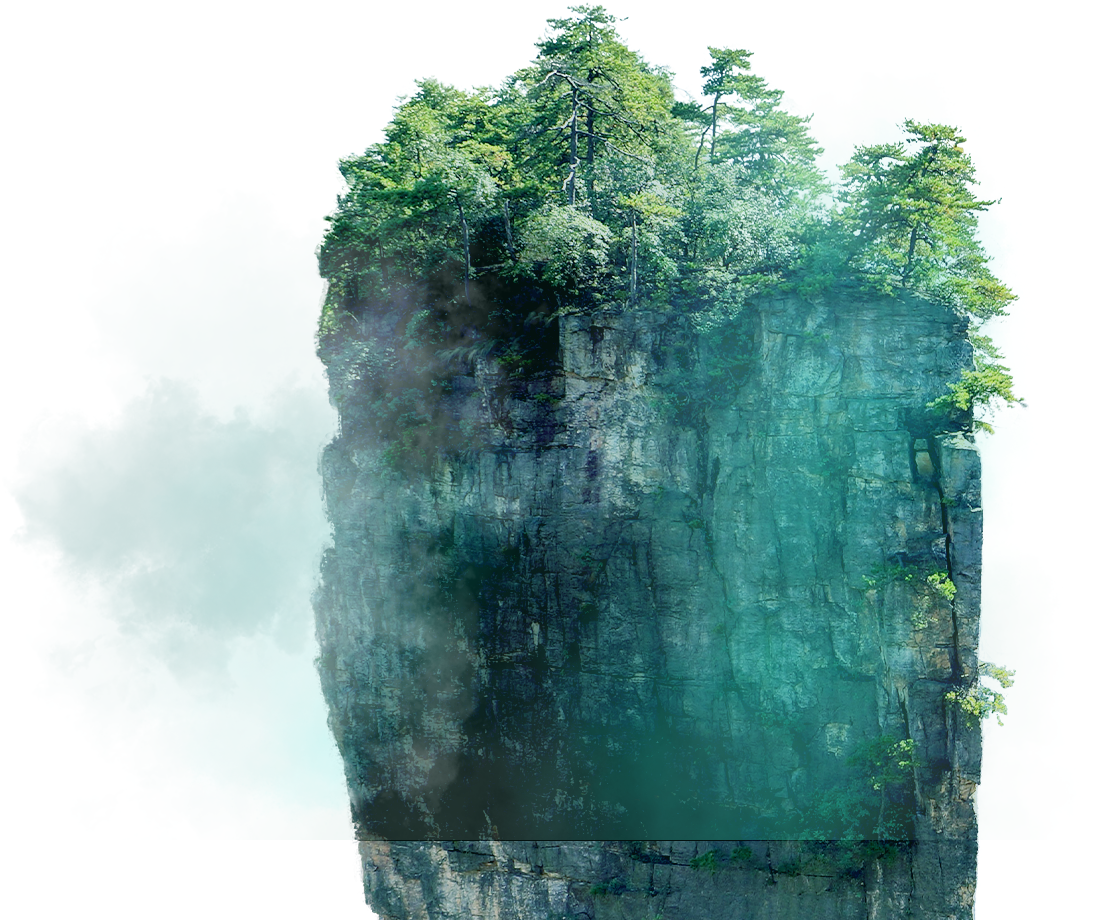
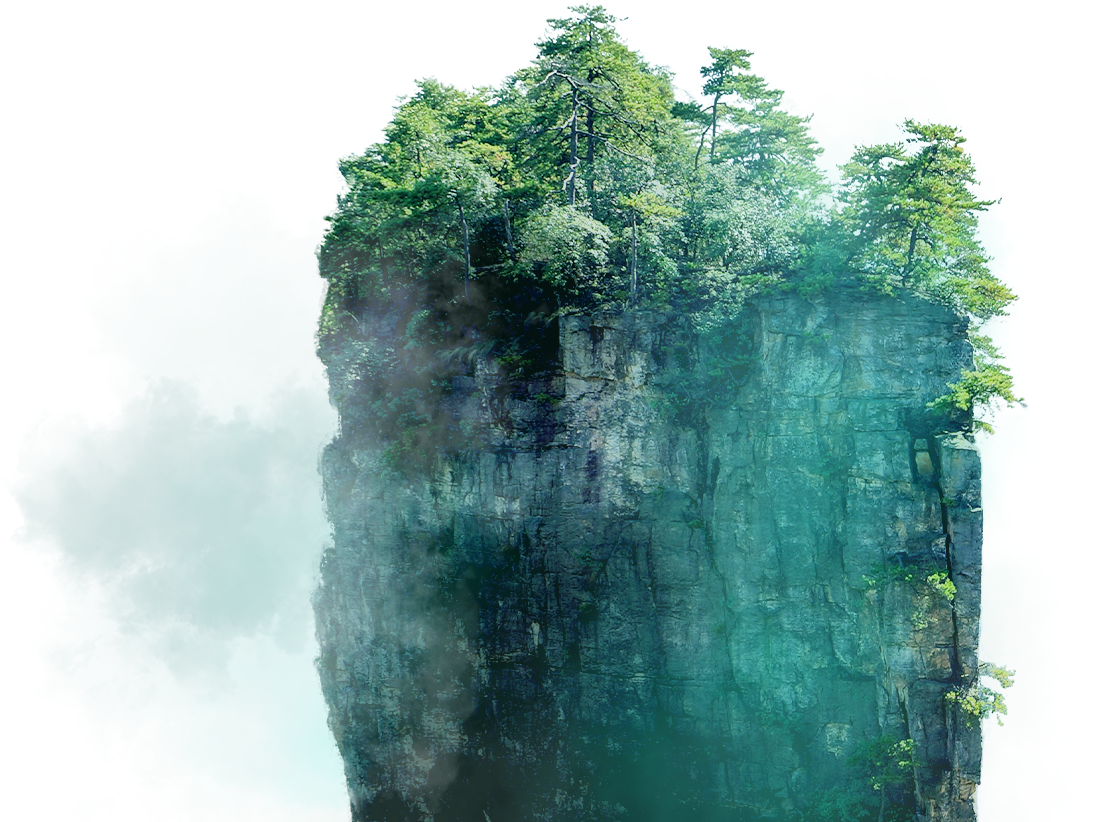
visual 이미지 수정

diff --git a/src/index.html b/src/index.html
@@ -21,21 +21,20 @@
     <main class="main">
       <h1 class="offscreen">홈</h1>
       <section class="visual">
-        <img src="./assets/images/bg_visual.png" alt="" class="visual__parallax visual__parallax--bg" data-speedx="0.3" data-speedy="0.28" data-speedz="0.32" data-rotation="0.3">
-        <img src="./assets/images/bg_visual_mountain01.png" alt="" class="visual__parallax visual__parallax--mountain01" data-speedx="0.245" data-speedy="0.221" data-speedz="0.43" data-rotation="0.23">
-        <img src="./assets/images/bg_visual_mountain02.png" alt="" class="visual__parallax visual__parallax--mountain02" data-speedx="0.19" data-speedy="0.185" data-speedz="0.67" data-rotation="0.43">
-        <img src="./assets/images/bg_visual_mountain03.png" alt="" class="visual__parallax visual__parallax--mountain03" data-speedx="0.135" data-speedy="0.153" data-speedz="0" data-rotation="0.23">
-        <img src="./assets/images/bg_visual_mountain04.png" alt="" class="visual__parallax visual__parallax--mountain04" data-speedx="0.09" data-speedy="0.1" data-speedz="0.39" data-rotation="0.31">
-        <div class="visual__parallax visual__parallax--txt" data-speedx="0.083" data-speedy="0.075" data-speedz="0.06" data-rotation="0.35">
+        <img src="./assets/images/bg_visual.jpg" alt="" class="visual__parallax visual__parallax--bg" data-speedx="0.2" data-speedy="0.2" data-speedz="0.2" data-rotation="0.2">
+        <img src="./assets/images/bg_visual_mountain01.png" alt="" class="visual__parallax visual__parallax--mountain01" data-speedx="0.18" data-speedy="0.18" data-speedz="0.5" data-rotation="0.4">
+        <img src="./assets/images/bg_visual_mountain02.png" alt="" class="visual__parallax visual__parallax--mountain02" data-speedx="0.15" data-speedy="0.15" data-speedz="0.6" data-rotation="0.5">
+        <img src="./assets/images/bg_visual_mountain03.png" alt="" class="visual__parallax visual__parallax--mountain03" data-speedx="0.13" data-speedy="0.13" data-speedz="0.1" data-rotation="0.1">
+        <img src="./assets/images/bg_visual_mountain04.png" alt="" class="visual__parallax visual__parallax--mountain04" data-speedx="0.1" data-speedy="0.1" data-speedz="0.3" data-rotation="0.3">
+        <div class="visual__parallax visual__parallax--txt" data-speedx="0.08" data-speedy="0.08" data-speedz="0.2" data-rotation="0.2">
           <h2 class="visual__tit">김재환 웹 포트폴리오</h2>
           <span class="visual__logo">HWAN</span>
         </div>
-        <img src="./assets/images/bg_visual_mountain05.png" alt="" class="visual__parallax visual__parallax--mountain05" data-speedx="0.063" data-speedy="0.053" data-speedz="0.3" data-rotation="0.37">
-        <img src="./assets/images/bg_visual_mountain06.png" alt="" class="visual__parallax visual__parallax--mountain06" data-speedx="0.042" data-speedy="0.064" data-speedz="0" data-rotation="0.3">
-        <img src="./assets/images/bg_visual_mountain07.png" alt="" class="visual__parallax visual__parallax--mountain07" data-speedx="0.054" data-speedy="0.032" data-speedz="0.25" data-rotation="0.134">
-        <img src="./assets/images/bg_visual_fog01.png" alt="" class="visual__parallax visual__parallax--fog01" data-speedx="0.045" data-speedy="0.065" data-speedz="0" data-rotation="0">
+        <img src="./assets/images/bg_visual_mountain05.png" alt="" class="visual__parallax visual__parallax--mountain05" data-speedx="0.06" data-speedy="0.06" data-speedz="0.2" data-rotation="0.2">
+        <img src="./assets/images/bg_visual_mountain06.png" alt="" class="visual__parallax visual__parallax--mountain06" data-speedx="0.04" data-speedy="0.04" data-speedz="0.2" data-rotation="0.2">
+        <img src="./assets/images/bg_visual_mountain07.png" alt="" class="visual__parallax visual__parallax--mountain07" data-speedx="0.02" data-speedy="0.02" data-speedz="0.2" data-rotation="0.1">
+        <img src="./assets/images/bg_visual_fog01.png" alt="" class="visual__parallax visual__parallax--fog01" data-speedx="0.2" data-speedy="0.2" data-speedz="0.2" data-rotation="0.2">
         <img src="./assets/images/bg_visual_fog02.png" alt="" class="visual__parallax visual__parallax--fog02" data-speedx="0.04" data-speedy="0.06" data-speedz="0.45" data-rotation="0.32">
-        <img src="./assets/images/bg_visual_sun.png" alt="" class="visual__parallax visual__parallax--sun" data-speedx="0.031" data-speedy="0.025" data-speedz="0.04" data-rotation="0">
         <div class="visual__mask"></div>
       </section>
       <section class="projects">
@@ -240,6 +239,10 @@
 
     {{> footer }}
     <!-- footer.html -->
+
+    <div class="scroll-up">
+      <button type="button" class="scroll-up__btn"><span class="offscreen">상단으로 이동</span></button>
+    </div>
   </div>
   
   <script type="module" src="./assets/js/index.js"></script>

diff --git a/src/assets/css/style.scss b/src/assets/css/style.scss
@@ -1,5 +1,4 @@
 @import "_common";
-@import "_header";
 
 // svg {
 //   margin: 0 auto;
@@ -45,27 +44,27 @@
       pointer-events: none;
       backface-visibility: hidden;
       &--bg {
-        left: calc(50% + 15rem);
-        top: calc(50% - 40rem);
-        width: 385.2rem;
+        left: 50%;
+        top: 50%;
+        width: 130%;
         z-index: 1;
       }
       &--mountain01 {
         left: calc(50% + 65rem);
         top: calc(50% + 20rem);
-        width: 183.7rem;
+        width: 100%;
         z-index: 2;
       }
       &--mountain02 {
         left: calc(50% - 45rem);
         top: calc(50% + 10rem);
-        width: 95.1rem;
+        width: 50%;
         z-index: 3;
       }
       &--mountain03 {
         left: calc(50% + 70rem);
-        top: calc(50% + 15rem);
-        width: 81.9rem;
+        top: calc(50% + 5rem);
+        width: 45%;
         z-index: 4;
       }
       &--txt {
@@ -79,44 +78,38 @@
       &--mountain04 {
         left: calc(50% - 55rem);
         top: calc(50% + 15rem);
-        width: 98.7rem;
+        width: 50%;
         z-index: 6;
       }
       &--mountain05 {
         left: calc(50% - 8rem);
         top: calc(50% + 30rem);
-        width: 110rem;
+        width: 55%;
         z-index: 7;
       }
       &--mountain06 {
         left: calc(50% - 80rem);
-        top: calc(50% - 20rem);
-        width: 95.4rem;
+        top: calc(50% - 5rem);
+        width: 50%;
         z-index: 8;
       }
       &--mountain07 {
-        left: calc(50% + 30rem);
+        left: calc(50% + 40rem);
         top: calc(50% + 30rem);
-        width: 139.3rem;
+        width: 65%;
         z-index: 9;
       }
       &--fog01 {
         left: calc(50% + 70rem);
         top: calc(50% + 40rem);
-        width: 81.9rem;
+        width: 50%;
         z-index: 10;
       }
       &--fog02 {
         left: calc(50% - 20rem);
         top: 50%;
-        width: 278.7rem;
+        width: 140%;
         z-index: 11;
-      }
-      &--sun {
-        left: calc(50% + 60rem);
-        top: calc(50% - 20rem);
-        width: 102.5rem;
-        z-index: 12;
       }
     }
     &__mask {
@@ -176,12 +169,10 @@
       position: relative;
       width: 100%;
       height: 100%;
-      &:hover .projects__link__bg,
-      &:focus .projects__link__bg {
+      &:hover .projects__link__bg {
         transform: scale(1);
       }
-      &:hover .projects__link-txt,
-      &:focus .projects__link-txt {
+      &:hover .projects__link-txt {
         color: $colorfff;
         &__flag {
           opacity: 1;
@@ -196,13 +187,6 @@
             }
           }
         }
-      }
-      &:focus .projects__link__mask {
-        transform-origin: right top; 
-        transform: perspective(10rem) translate3d(0, 100%, 0) rotate(-10deg) scale(1.2);
-      }
-      &:focus {
-        outline: 0;
       }
       &__tilt {
         position: absolute;

diff --git a/src/assets/js/index.js b/src/assets/js/index.js
@@ -1,30 +1,40 @@
 import { addClass } from './module/utill';
 import { removeClass } from './module/utill';
 import { setupCopyText } from './module/utill';
+import { scrollTopMove } from './module/utill';
+import { scrollTopMoveBtn } from './module/scrollTopMoveBtn';
 import { menuHandler } from './module/Header';
 import { projectsHandler } from './projects';
 
 menuHandler();
 setupCopyText();
+scrollTopMove();
 
 mainScrollHandler();
-visualHandler();  
+visualHandler();
+projectsHandler();
 
 
 function mainScrollHandler() {
   const headerBarElem = document.querySelector('.header-scroll');
   const menuOpenBtn = document.querySelector('.header-menu__open')
   const visual = document.querySelector('.visual');
+  let documentHeight;
   let visualBreakpoint;
+  let windowInnerHeight;
   let maxScrollValue;
 
   function onResize() {
-    maxScrollValue = document.body.offsetHeight - window.innerHeight;
+    windowInnerHeight = window.innerHeight;
+    documentHeight = document.body.offsetHeight;
+    maxScrollValue = documentHeight - windowInnerHeight;
     visualBreakpoint = visual.offsetHeight;
   }
 
   function headerProgress() {
     const scrollPer = scrollY / maxScrollValue;
+    const currentScroll = scrollY + window.innerHeight;
+
     headerBarElem.style.height = scrollPer * 100 + '%';
 
     if (scrollY >= visualBreakpoint / 1.5) {
@@ -37,6 +47,12 @@ function mainScrollHandler() {
       addClass(menuOpenBtn, '-change');
     } else {
       removeClass(menuOpenBtn, '-change');
+    }
+
+    if (currentScroll * 1.1 >= documentHeight) {
+      scrollTopMoveBtn();
+    } else {
+      
     }
   }
 
@@ -92,3 +108,4 @@ function visualHandler() {
 
   update(0);
 }
+

diff --git a/src/assets/css/_scrollMoveTop.scss b/src/assets/css/_scrollMoveTop.scss
@@ -1,0 +1,63 @@
+.scroll-up {
+  position: fixed;
+  right: 5rem;
+  bottom: 13rem;
+  z-index: 200;
+  width: 8rem;
+  height: 8rem;
+  opacity: 0;
+  visibility: hidden;
+  transition: opacity 0.3s ease;
+  &__btn {
+    overflow: hidden;
+    position: absolute;
+    left: 50%;
+    top: 50%;
+    transform: translate3d(-50%, -50%, 0);
+    width: 100%;
+    height: 100%;
+    background-color: $color000;
+    border: 1px solid $color000;
+    border-radius: 50%;
+    &::after {
+      content: "";
+      position: absolute;
+      left: 50%;
+      top: 50%;
+      transform: translate3d(-50%, -30%, 0) rotate(-45deg);
+      width: 20%;
+      height: 20%;
+      border-top: 2px solid $colorfff;
+      border-right: 2px solid $colorfff;
+    }
+    &::before {
+      content: "";
+      position: absolute;
+      left: 50%;
+      top: 50%;
+      transform: translate3d(-50%, 60%, 0) scale(0);
+      width: 100%;
+      height: 100%;
+      background-color: $colorfff;
+      border-radius: 50%;
+      transition: transform 0.5s $transBounce;
+    }
+  }
+
+  &:hover {
+    .scroll-up__btn {
+      animation: scrollTopBtn 0.5s $transBounce;
+      &::after {
+        border-color: $color000;
+      }
+      &::before {
+        transform: translate3d(-50%, -50%, 0) scale(1);
+      }
+    }
+  }
+
+  &.-show {
+    opacity: 1;
+    visibility: visible;
+  }
+}

diff --git a/src/assets/css/_mixin.scss b/src/assets/css/_mixin.scss
@@ -117,11 +117,8 @@
     transition-duration: 0.2s;
     transition-delay: 0.2s;
   }
-  &:hover, &:focus {
+  &:hover {
     @include btnRoundHover($paddingSide, $height);
-  }
-  &:focus {
-    outline: 0;
   }
 }
 
@@ -148,17 +145,11 @@
     @include btnUnderlineBar;
   }
 
-  &:hover, 
-  &:focus {
+  &:hover {
     .btn-underline__bar {
       @include btnUnderlineBarHover();
     }
   }
-
-  &:focus {
-    outline: 0;
-  }
-
 }
 
 @mixin btnUnderlineBar($bgColor: $color000) {

diff --git a/src/assets/css/_header.scss b/src/assets/css/_header.scss
@@ -72,8 +72,7 @@
         transform: translate3d(0, 400%, 0);
       }
     }
-    &:hover,
-    &:focus {
+    &:hover {
       .top {
         @include menuOpenBar(translate3d(0, -600%, 0), top, 0.2s);
       }
@@ -83,9 +82,6 @@
       .bottom {
         @include menuOpenBar(translate3d(0, 600%, 0), bottom, 0.4s);
       }
-    }
-    &:focus {
-      outline: 0;
     }
   }
 

diff --git a/src/assets/js/module/scrollTopMoveBtn.js b/src/assets/js/module/scrollTopMoveBtn.js
@@ -1,0 +1,9 @@
+import { addClass } from './utill';
+import { removeClass } from './utill';
+
+export function scrollTopMoveBtn() {
+  const scrollTopBtn = document.querySelector('.scroll-up');
+  scrollTopBtn.addEventListener('click', (event) => {
+    setTimeout(() => scrollTo(0, 0), 100);
+  });
+}

diff --git a/src/assets/css/_common.scss b/src/assets/css/_common.scss
@@ -3,6 +3,8 @@
 @import "_variable";
 @import "_mixin";
 @import "_keyframes";
+@import "_scrollMoveTop";
+@import "_header";
 @import "_footer";
 
 body.-has-popup {
@@ -18,4 +20,3 @@ body.-has-popup {
   -webkit-clip-path:polygon(0 0, 0 0, 0 0); 
   clip-path:polygon(0 0, 0 0, 0 0);
 }
-

diff --git a/src/assets/css/_keyframes.scss b/src/assets/css/_keyframes.scss
@@ -78,3 +78,15 @@
     left: 100%;
   }
 }
+
+@keyframes scrollTopBtn {
+  0% {
+    transform: translate3d(-50%, -50%, 0);
+  }
+  30% {
+    transform: translate3d(-50%, -30%, 0);
+  }
+  100% {
+    transform: translate3d(-50%, -50%, 0);
+  }
+}

diff --git a/src/assets/js/module/utill.js b/src/assets/js/module/utill.js
@@ -28,3 +28,9 @@ export function setupCopyText() {
     });
   });
 }
+
+export function scrollTopMove() {
+  window.addEventListener('load', () => {
+    setTimeout(() => scrollTo(0, 0), 100);
+  })
+}
